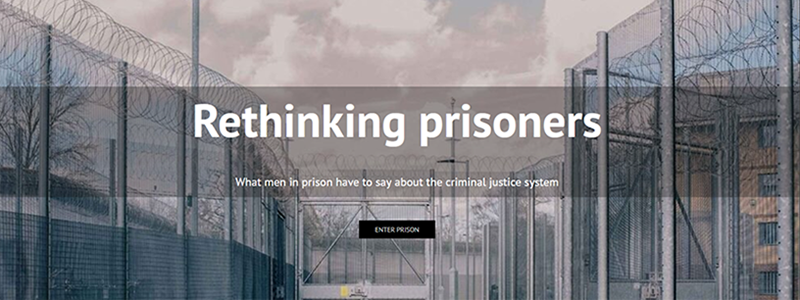
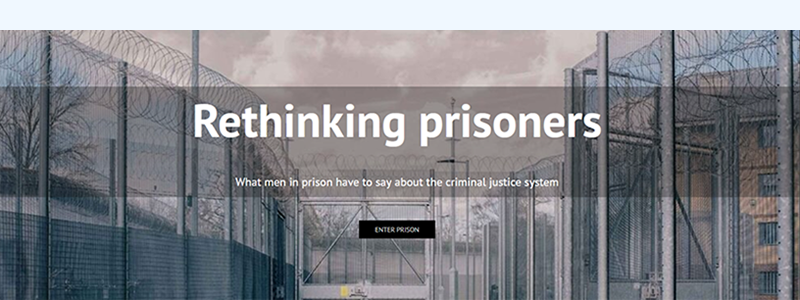
added @media queries section to css, and an additional image

Changed region(s): [[0.0, 0.0, 1.0, 0.12]]

diff --git a/css/style.css b/css/style.css
@@ -11,25 +11,24 @@ body {
   background-color: var(--altbkd);
 }
 
+/* These apply for display screens up to 600px - mobile first. */
 header {
   background-color: var(--altbkd);
   display: flex;
-  justify-content: space-between;
-  align-items: center;
-  width: 95%;
+  flex-direction: column;
+}
+
+header h1 {
+  font-size: 30px;
+  background-color: var(--bkd);
+  padding-left: 10px;
 }
 
 nav ul {
   display: flex;
-  justify-content: space-between;
-  min-width: 400px;
-}
-
-header h1 {
-  font-size: 50px;
-  background-color: var(--bkd);
-  padding: 5px 30px 5px 60px;
-  margin: 10px 0 15px 0;
+  flex-direction: column;
+  margin-top: 50px;
+  width: 140px;
 }
 
 header ul li {
@@ -38,61 +37,92 @@ header ul li {
   border-bottom: 4px solid  var(--txt);
   padding-bottom: 1px;
 }
-
 section.hero-banner {
   background-color: var(--altbkd);
-  background-image:url(../images/02-hero-bg.jpg);
-  background-position: 50% 0;
-  background-repeat: no-repeat;
-  background-size: cover;
-  height: 150px;
+  margin-top: -220px;
 }
 
 div.bkd {
   height: 60px;
   background-color: var(--bkd);
-  position: absolute;
-  margin-top: 115px;
-  margin-right: 50px;
-  right: 10px;
-  top: 75px;
+  margin-top: -100px;
 }
-
-div.bkd h2 {
-  font-size: 40px;
-  text-align: right;
-  padding: 0 10px;
-}
-
-/*  */
 
 main.page-wrapper {
   background-color: var(--bkd);
+  margin-top: 160px;
 }
 
 section.page-section {
-  display: grid;
-  grid-template-columns: 
-  400px auto;
-  margin: 0 30px 20px 0;
   padding-top: 30px;
 }
 
 section.page-section h3 {
-  font-size: 45px;
-  text-align: right;
-  padding-left: 150px;
-  padding-right: 10px;
-  border-right-style: solid;
-  border-right-color: var(--txt);
-  border-right-width: thick;
+  margin-top: 20px;
+  font-size: 25px;
+  padding-left: 10px;
+}
+
+section.page-section p, ul, div {
+  padding-left: 10px;
+}
+
+#work div {
+  min-height: 300px;
+  display: grid;
+  grid-template-rows: 20% 20% 20% 20% 20%;
+  grid-template-columns: 100%;
+  grid-template-areas:
+    "work1"
+    "work2"
+    "work3"
+    "work4"
+    "work5";
+}
+
+#work1 {
+  grid-area: work1;
+  background-image: url("../images/rethinking-prisoners.png");
+  background-size: contain;background-repeat: no-repeat;
+ }
+
+#work2 {
+   grid-area: work2;
+   background-image: url("../images/yummy-halloween.png");
+   background-size: contain;
+   background-repeat: no-repeat;
+}
+
+#work3 {
+  grid-area: work3;
+  background-image: url("../images/coming-soon.png");
+  background-size: contain;
+  background-repeat: no-repeat;
+}
+
+#work4 {
+  grid-area: work4;
+  background-image: url("../images/coming-soon.png");
+  background-size: contain;
+  background-repeat: no-repeat;
+}
+
+#work5 {
+  grid-area: work5;
+  background-image: url("../images/coming-soon.png");
+  background-size: contain;    background-repeat: no-repeat;
+}
+
+.heading {
+  font-weight: bolder;
 }
 
 section.page-section ul {
+  margin-top: 20px;
   display: flex;
-  justify-content: space-between;
-  align-items: center;
-  min-width: 800px;
+  flex-direction: column;
+  width: 240px;
+
 }
 
 section.page-section ul li {
@@ -102,48 +132,99 @@ section.page-section ul li {
   padding-bottom: 1px;
 }
 
-section.page-section p, ul, div {
-  padding-left: 20px;
-}
 
-#work div {
-  margin: 5px 5%;
-  display: grid;
-  min-height: 300px;
-  grid-template-rows: 33% 33% 33%;
-  grid-template-columns: 50% 50%;
-  grid-template-areas:
-  "work1 work1"
-  "work2 work3"
-  "work4 work5";
-}
+/* These apply for display screens 600px and larger */
+@media (min-width: 600px) {
 
-#work1 {
-  grid-area: work1;
-  background-image: url("../images/rethinking-prisoners.png");
-}
+  header {
+    display: flex;
+    flex-direction: row;
+    justify-content: space-between;
+    align-items: center;
+    width: 95%;
+  }
 
-#work2 {
-  grid-area: work2;
-  background-image: url("../images/coming-soon.png");
-}
+  header h1 {
+    font-size: 50px;
+    padding: 5px 30px 5px 60px;
+    margin: 10px 0 15px 0;
+  }
 
-#work3 {
-  grid-area: work3;
-  background-image: url("../images/coming-soon.png");
-}
+  nav ul {
+    display: flex;
+    flex-direction: row;
+    justify-content: space-between;
+    min-width: 400px;
+  }
 
-#work4 {
-  grid-area: work4;
-  background-image: url("../images/coming-soon.png");
-}
+  section.hero-banner {
+    background-image:url(../images/02-hero-bg.jpg);
+    background-position: 50% 0;
+    background-repeat: no-repeat;
+    background-size: cover;
+    margin-top: 0px;
+    height: 150px;
+  }
 
-#work5 {
-  grid-area: work5;
-  background-image: url("../images/coming-soon.png");
-}
+  div.bkd {
+    height: 60px;
+    background-color: var(--bkd);
+    position: absolute;
+    margin-top: 115px;
+    margin-right: 50px;
+    right: 10px;
+    top: 75px;
+  }
 
-.heading {
-   font-weight: bolder;
-}
+  div.bkd h2 {
+    font-size: 40px;
+    text-align: right;
+    padding: 0 10px;
+  }
 
+  main.page-wrapper {
+    background-color: var(--bkd);
+    margin-top: 0px;
+  }
+
+  section.page-section {
+    display: grid;
+    grid-template-columns: 
+    400px auto;
+    margin: 0 30px 20px 0;
+  }
+
+  section.page-section h3 {
+    font-size: 45px;
+    text-align: right;
+    padding-left: 150px;
+    padding-right: 10px;
+    border-right-style: solid;
+    border-right-color: var(--txt);
+    border-right-width: thick;
+  }
+
+  section.page-section p, ul, div {
+    padding-left: 10px;
+  }
+
+  #work div {
+    margin: 5px 5%;
+    display: grid;
+    min-height: 300px;
+    grid-template-rows: 33% 33% 33%;
+    grid-template-columns: 50% 50%;
+    grid-template-areas:
+    "work1 work1"
+    "work2 work3"
+    "work4 work5";
+  }
+
+  section.page-section ul {
+    margin-top: 0px;
+    flex-direction: row;
+    justify-content: space-between;
+    align-items: center;
+    min-width: 700px;
+  }
+}

diff --git a/index.html b/index.html
@@ -6,15 +6,15 @@
   <meta name="viewport" content="width=device-width, initial-scale=1.0">
   <meta http-equiv="X-UA-Compatible" content="ie=edge">
   <title>Stephanie David // Web Developer</title>
-  <link rel="stylesheet" href="css/reset.css" />
-  <link rel="stylesheet" href="css/style.css" />
+  <link rel="stylesheet" href="/css/reset.css" />
+  <link rel="stylesheet" href="/css/style.css" />
 </head>
 
 <body>
   <!-- main logo / nav -->
   <header>
     <h1>Stephanie David</h1>
-    <nav>
+    <nav id="menu">
       <ul>
         <li><a href="#about-me">About Me</a></li>
         <li><a href="#work">Work</a></li>
@@ -38,16 +38,17 @@
         <p>Experienced in programming top quality responsive web solutions for blue chip clients and government departments. I have ensured that they were well organised, with content transparently presented, and interactive functionality appropriate.<br /><br />
         I am formally trained and self-taught in many development languages and techniques on different platforms and in various development environments.<br /><br />
         User-centred design has been the key focus of my work with universal accessibility the measurement of success.</p>
+        <br /><br /><a href="#menu">Return to the menu</a>
     </section>
     <!-- portfolio container -->
     <section class="page-section" id="work">
-      <h3 id="work">Work</h3>
+      <h3>Work</h3>
       <div id="workGrid">
         <div id="work1" class="workGridArea">
-          <div class="heading"><a href="https://question-everything.co.uk/">Rethinking Prisoners</a> - WordPress/PHP/JavaScript - pwd: G0t0j51l</div>
+          <div class="heading"><a href="https://question-everything.co.uk/">Rethinking&nbsp;Prisoners</a><br />WordPress/PHP/JavaScript&nbsp;pwd:&nbsp;G0t0j51l</div>
         </div>
         <div id="work2" class="workGridArea">
-          <div class="heading"></div>
+          <div class="heading"><a href="https://stephdavid.github.io/landing-page/">Yummy&nbsp;Hallowe'en</a><br >HTML/CSS/Graphics</div>
         </div>
         <div id="work3" class="workGridArea">
           <div class="heading"></div>
@@ -59,6 +60,7 @@
           <div class="heading"></div>
         </div>
       </div>
+      <br /><br /><a href="#menu">Return to the menu</a>
     </section>
     <!-- contact -->
     <section class="page-section contact" id="contact">
@@ -68,7 +70,8 @@
           <li><a href="mailto:stephdaviduk@gmail.com">stephdaviduk@gmail.com</a></li>
           <li><a href="https://www.linkedin.com/in/stephanie-david-88b25b7">LinkedIn</a></li>
           <li><a href="https://github.com/stephdavid">GitHub</a></li>
-        </ul>/
+        </ul>
+        <br /><br /><a href="#menu">Return to the menu</a>
     </section>
   </main>
 </body>
